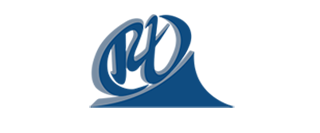
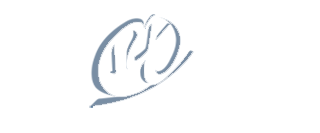
fix language choice

Changed region(s): [[0.2812, 0.0902, 0.75, 0.812]]

diff --git a/public/site/css/style.css b/public/site/css/style.css
@@ -11609,3 +11609,12 @@ a.h3.post-title {
     z-index: 3;
     width: 100%;
 }
+.uk-active .logo-white {
+    display: none;
+}
+.uk-active .logo-blue {
+    display: block !important;
+}
+.logo-blue {
+    display: none;
+}

diff --git a/resources/views/site/partials/header.blade.php b/resources/views/site/partials/header.blade.php
@@ -13,9 +13,12 @@
         <div class="uk-navbar-left">
             <div class="logo" style="margin: 0; font-size: 0;">
                 <a href="{{route('front.home_page')}}" title="RT ENERGY">
-                    <span class="uk-logo uk-icon uk-preserve">
-                            <img class="rt-acean" src="{{ asset('site/system/rt-en.png') }}" style="height: auto" alt="RT ENERGY VI">
-                    </span>
+                <span class="uk-logo uk-icon uk-preserve logo-white">
+                        <img class="rt-acean" src="{{ asset('site/system/rt-white.png') }}" style="height: auto" alt="RT ENERGY VI">
+                </span>
+                <span class="uk-logo uk-icon uk-preserve logo-blue">
+                    <img class="rt-acean" src="{{ asset('site/system/rt-en-1.png') }}" style="height: auto" alt="RT ENERGY VI">
+                </span>
                 </a>
             </div>
         </div>
@@ -675,7 +678,7 @@
     .lang_box {
         border-radius: 4px;
         height: 26px;
-        line-height: 35px;
+        line-height: 26px;
         background-color: transparent;
         cursor: pointer;
         border: 0px solid #592c7c;
@@ -698,7 +701,7 @@
         border: 1px solid #ccc;
         display: none;
         position: absolute;
-        width: 78px;
+        width: 46px;
         z-index: 9999;
     }
 
@@ -713,7 +716,7 @@
     }
 
     .choise-lang a img {
-        height: 20px;
+        height: 18px;
         padding: 0 2px 0 0;
         vertical-align: middle;
     }
